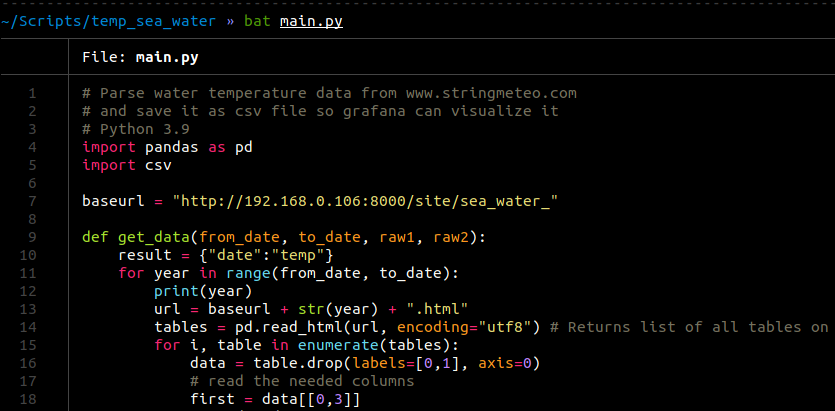
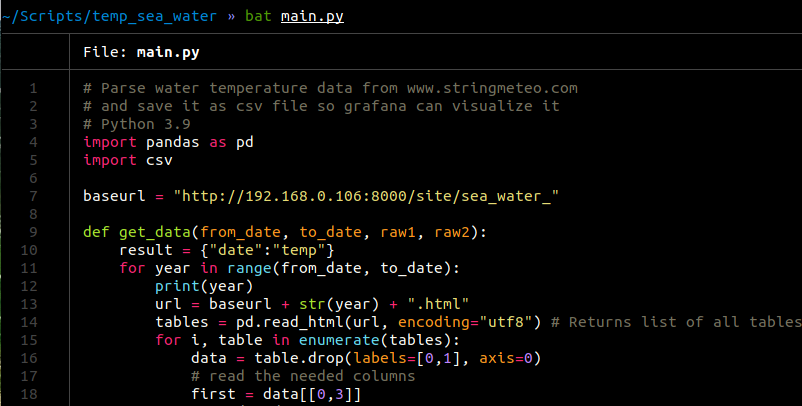
post update

diff --git a/_posts/2021-12-01-Useful-cli-tools.md b/_posts/2021-12-01-Useful-cli-tools.md
@@ -7,7 +7,7 @@ categories: ubuntu, cli
 # Github repos for some usefull CLI tools I use daily
 ## fd
 [https://github.com/sharkdp/fd/](https://github.com/sharkdp/fd/){:target="_blank"}
-
+![fd screenshot](/static/img/fd-screenshot.png)  
 fd is a program to find entries in your filesystem. It is a simple, fast and user-friendly alternative to find. While it does not aim to support all of find's powerful functionality, it provides sensible (opinionated) defaults for a majority of use cases.
 
 ```bash